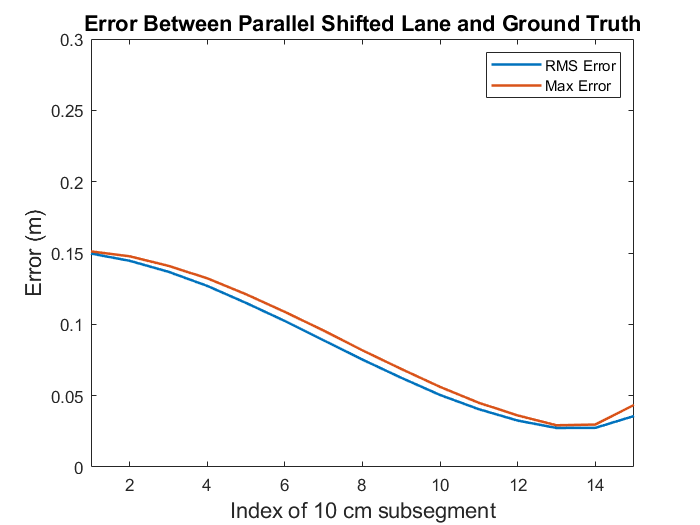
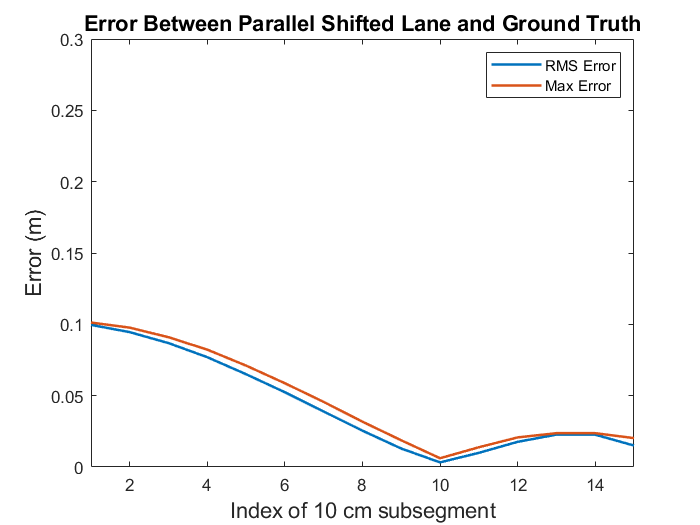
lane width changed to 3.8 meters. (measured from the data at hand)

Changed region(s): [[0.12, 0.4571, 0.9, 0.8838]]

diff --git a/MATLAB/roadArcSpline/mainV8.m b/MATLAB/roadArcSpline/mainV8.m
@@ -120,7 +120,7 @@ errorCfg.headingDeviation = 2; % Degrees deviation allowed for concatenated line
 % end
 
 %% Generate other lanes
-laneWidth = 3.75; % meters
+laneWidth = 3.8; % meters
 numLanes = 1; % other lanes
 [otherLanes,xEastShifted,yNorthShifted] = generateOtherLanes(segments{1},laneWidth,numLanes);
 allX = [];
@@ -204,7 +204,7 @@ grid on
 legend()
 
 
-%% Compute rms and curvatures of a picked shifted lane (arc spline)
+%% Compute rms and max error of a picked shifted lane (arc spline)
 segmentNumShifted = 282;
 segmentLengthShifted = 1000;
 
@@ -222,7 +222,7 @@ for j = 1:numel(rms_array_shifted)
     measurement_xy = [xEastShifted(start_idx:end_idx) yNorthShifted(start_idx:end_idx)];
 
     % [rms_error, max_error, errors] = computeSegmentError(measurement_xy,ground_truth_xy);
-  [rms_array_shifted(j), max_err_array_shifted(j), ~] = ...
+  [rms_array_shifted(j), max_err_array_shifted(j), errors] = ...
         computeSegmentError(measurement_xy,ground_truth_xy_shifted);
 end
 % figure;
@@ -439,7 +439,7 @@ xlim([1 numel(rms_array_ref)])
 % title('Error With Respect o OSM Map')
 %% Compute distance between centers
 
-[rms_error, max_error, errors] = computeSegmentError([allX{1} allY{1}],[allX{2} allY{2}]);
+[rms_error_GT, max_error_GT, errors_GT] = computeSegmentError([allX{1}(1:10000) allY{1}(1:10000)],[allX{2}(1:10000) allY{2}(1:10000)]);
 %%
 numAllClothoid = numel(all_clothoids{1});
 disp(['The road initially had ', num2str(numAllClothoid) ,' clothoids.'])
